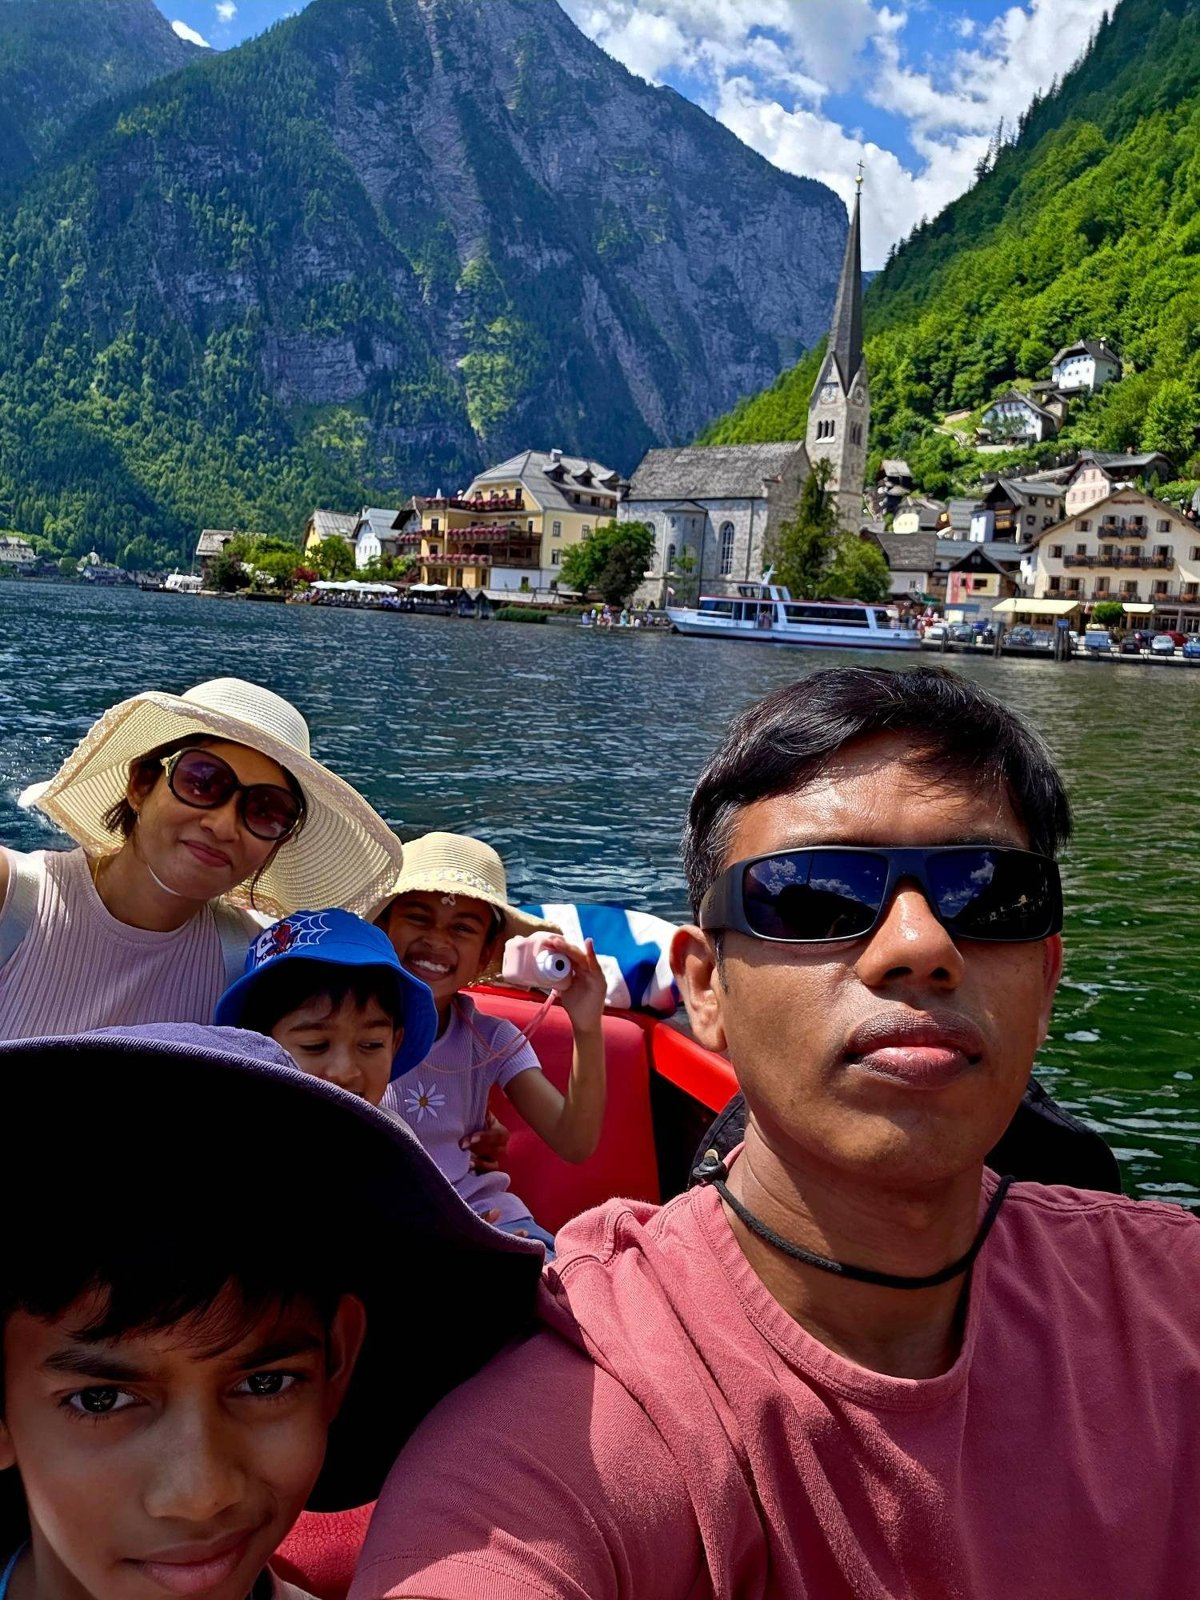
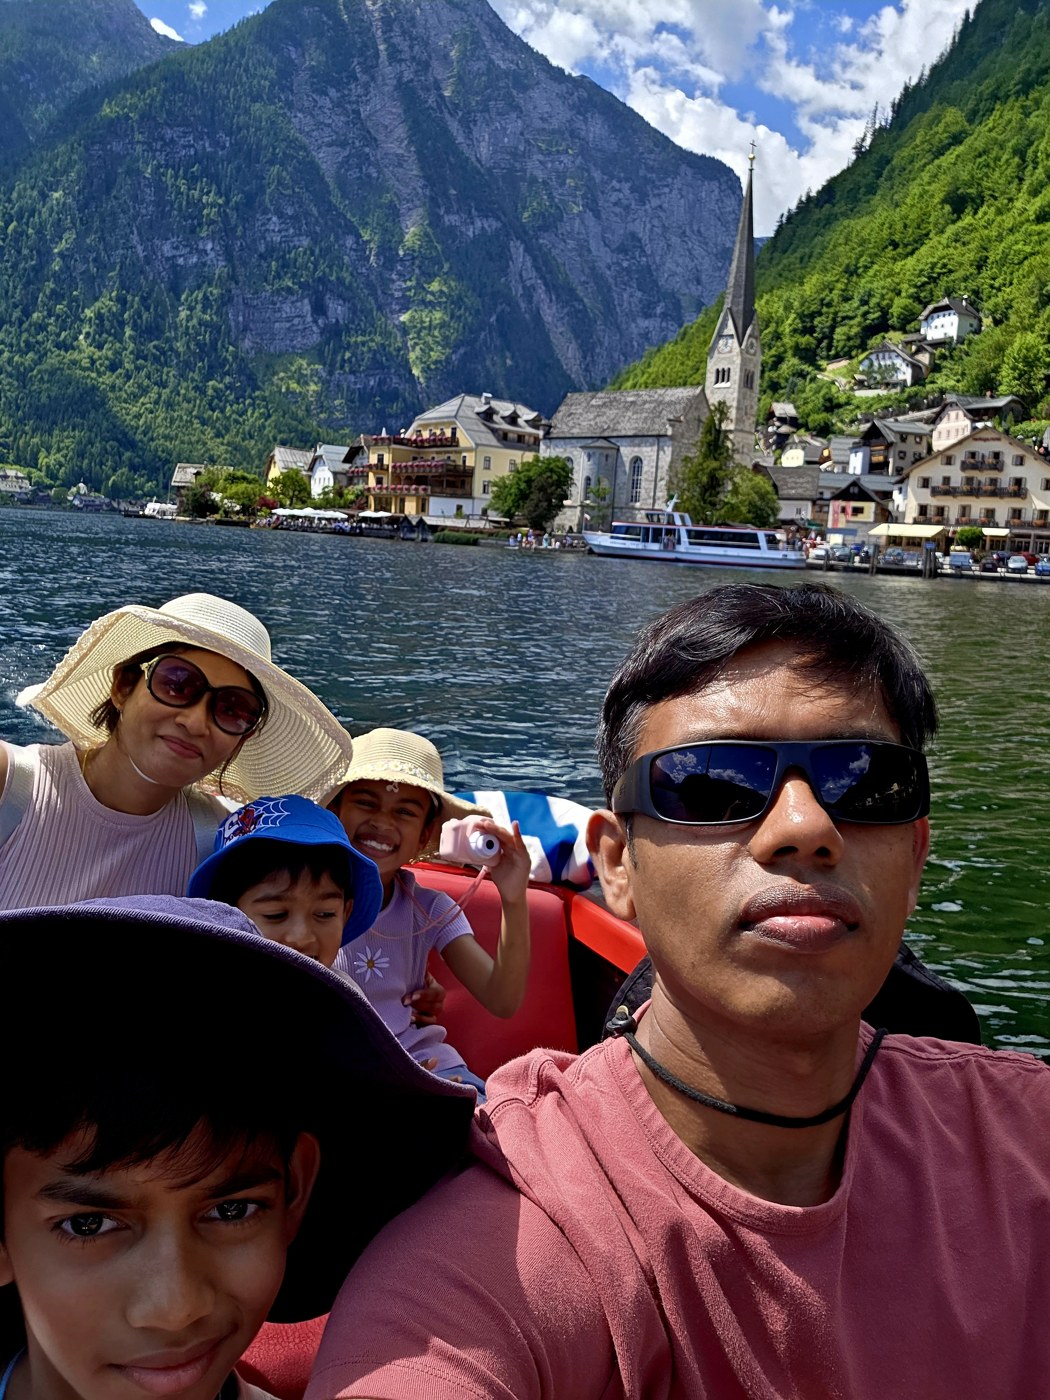
Austria cover: use the boat-on-the-lake family photo for the Hallstatt card (distinct from the new cover hero, fixes the duplicate)

diff --git a/magazines/03-austria-2026.html b/magazines/03-austria-2026.html
@@ -180,7 +180,7 @@ body { padding:20px; }
   <!-- Right-hand city column: the three cities as clean cards, labels below the photo (no text over faces, nothing over the hills) -->
   <div class="cv-strip">
     <div class="cv-strip-h">The Cities · 2026</div>
-    <div class="scard"><img src="../images/austria/hallstatt-viewpoint-family.jpg" alt=""><div class="sn">Hallstatt</div></div>
+    <div class="scard"><img src="../images/austria/hallstatt-boat-family.jpg" alt=""><div class="sn">Hallstatt</div></div>
     <div class="scard"><img src="../images/austria/salzburg-family-cathedral.jpg" alt=""><div class="sn">Salzburg</div></div>
     <div class="scard"><img src="../images/austria/vienna-schoenbrunn-family.jpg" alt=""><div class="sn">Vienna</div></div>
   </div>
